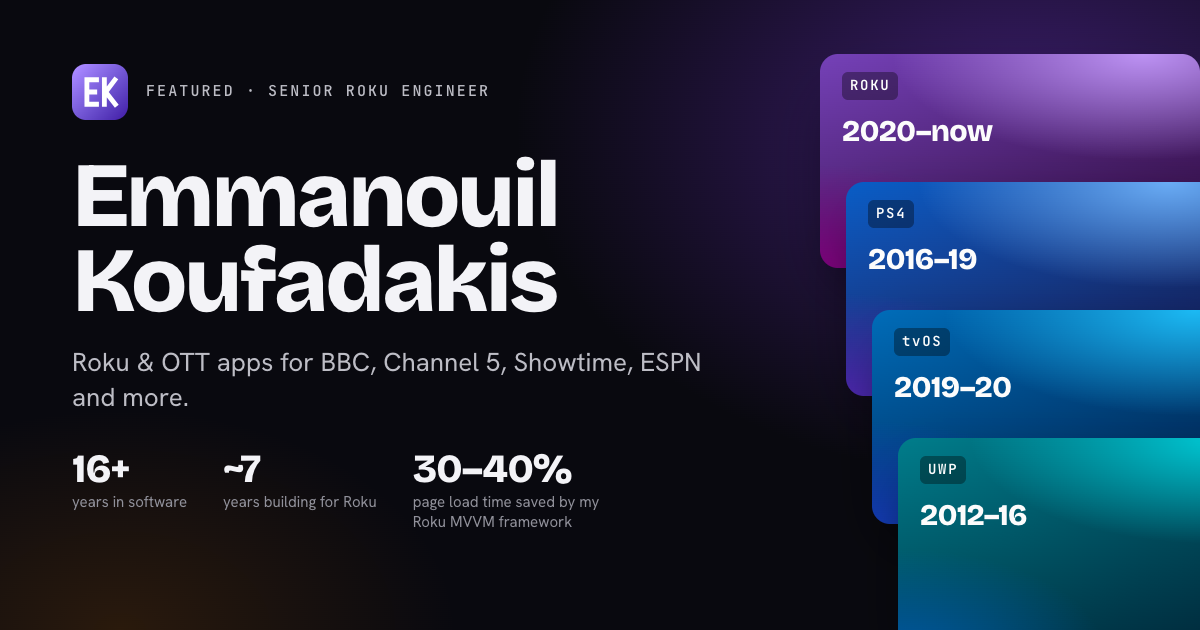
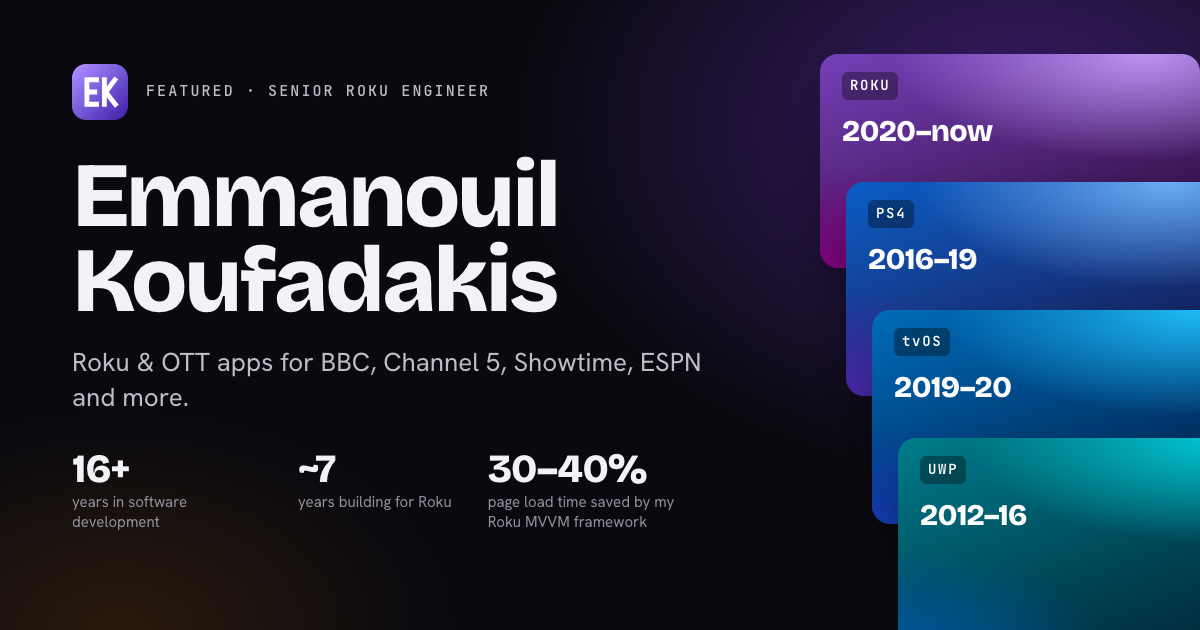
Add certifications section, mobile menu and stat wording
- Give certificates their own "Always learning" section with a nav link
- Add a hamburger popover menu for phones and tablets
- Say "16+ years in software development" across the site, PDF and OG image

diff --git a/src/data/cv.ts b/src/data/cv.ts
@@ -24,12 +24,12 @@ export const profile = {
   pitch:
     'I build Roku and OTT apps for broadcasters and streaming brands: fast to load, easy to maintain and ready for certification.',
   about: [
-    'I have spent 16+ years in software, almost 7 of them building Roku apps in BrightScript and SceneGraph for BBC, Channel 5, Showtime, Crackle and Univision. Today I work as a contract Senior Roku Engineer at Deltatre.',
+    'I have spent 16+ years in software development, almost 7 of them building Roku apps in BrightScript and SceneGraph for BBC, Channel 5, Showtime, Crackle and Univision. Today I work as a contract Senior Roku Engineer at Deltatre.',
     'I am hands-on with the Roku Advertising Framework (RAF), EPG and parental controls, HLS/DASH playback, DRM and analytics, and I enjoy the detective work of tuning load time and memory across Roku devices. Before Roku, I led app teams on PlayStation, Apple TV, Windows, Xbox and the web for ESPN, CBS, NHL, WWE, Camelot and UEFA.',
   ],
   /** Short, CV-style summary used on the PDF. */
   cvSummary:
-    'Senior Roku engineer with 16+ years in software, including almost 7 years building and deploying Roku apps in BrightScript and SceneGraph for BBC, Channel 5, Showtime, Crackle and Univision. Hands-on with the Roku Advertising Framework (RAF), EPG and parental controls, HLS/DASH playback, DRM and analytics, and with tuning load time and memory use across Roku devices. Built a custom Roku MVVM framework that cut page data-loading time by 30–40%. Currently a contract Senior Roku Engineer at Deltatre. Earlier led PlayStation, Apple TV, Windows, Xbox and web app teams for ESPN, CBS, NHL, WWE, Camelot and UEFA.',
+    'Senior Roku engineer with 16+ years in software development, including almost 7 years building and deploying Roku apps in BrightScript and SceneGraph for BBC, Channel 5, Showtime, Crackle and Univision. Hands-on with the Roku Advertising Framework (RAF), EPG and parental controls, HLS/DASH playback, DRM and analytics, and with tuning load time and memory use across Roku devices. Built a custom Roku MVVM framework that cut page data-loading time by 30–40%. Currently a contract Senior Roku Engineer at Deltatre. Earlier led PlayStation, Apple TV, Windows, Xbox and web app teams for ESPN, CBS, NHL, WWE, Camelot and UEFA.',
   location: 'Surbiton, Surrey, UK',
   email: 'manos.koufadakis@gmail.com',
   linkedin: 'https://www.linkedin.com/in/emmanouil-koufadakis',
@@ -38,7 +38,7 @@ export const profile = {
   availability: 'Available within 30 days',
   workPreference: 'Contract or permanent · remote or London',
   stats: [
-    { value: '16+', label: 'years in software' },
+    { value: '16+', label: 'years in software development' },
     { value: '~7', label: 'years building for Roku' },
     { value: '30–40%', label: 'page load time saved by my Roku MVVM framework' },
   ],
@@ -308,15 +308,38 @@ export const education = [
   },
 ];
 
-export const certifications: { name: string; issuer: string; date: string; url?: string }[] = [
+export const certifications: {
+  name: string;
+  issuer: string;
+  date: string;
+  url?: string;
+  /** Topics listed on the LinkedIn credential. */
+  topics: string[];
+  /** OKLCH hue for the issuer tile. */
+  hue: number;
+}[] = [
   {
     name: 'Introduction to agent skills',
     issuer: 'Anthropic',
     date: 'May 2026',
     url: 'https://verify.skilljar.com/c/8bttmhi2q6on',
+    topics: ['AI', 'Claude skills'],
+    hue: 45,
   },
-  { name: 'Become a ReactJS developer in 30 days', issuer: 'Udemy', date: 'Oct 2025' },
-  { name: 'Frontend web developer: modern HTML, CSS, JavaScript', issuer: 'Udemy', date: 'Sep 2025' },
+  {
+    name: 'Become a ReactJS developer in 30 days',
+    issuer: 'Udemy',
+    date: 'Oct 2025',
+    topics: ['React.js', 'Next.js'],
+    hue: 300,
+  },
+  {
+    name: 'Frontend web developer: modern HTML, CSS, JavaScript',
+    issuer: 'Udemy',
+    date: 'Sep 2025',
+    topics: ['HTML5', 'CSS', 'JavaScript'],
+    hue: 280,
+  },
 ];
 
 export const volunteering = [
